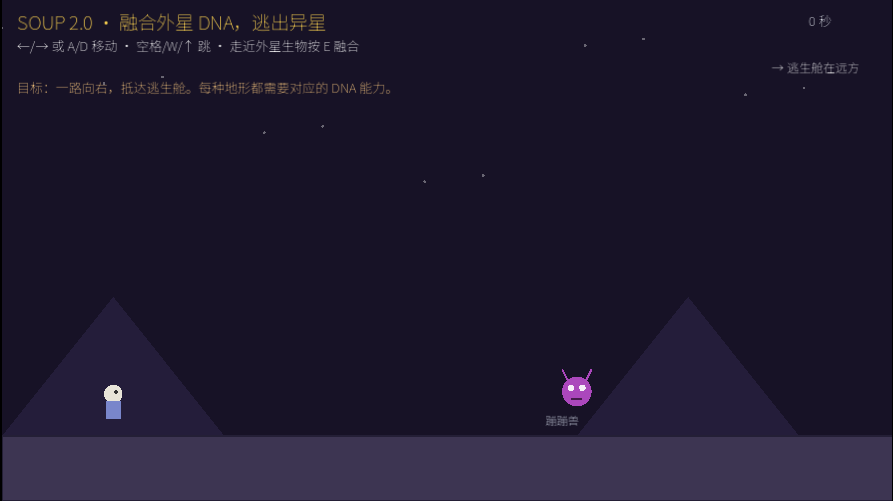
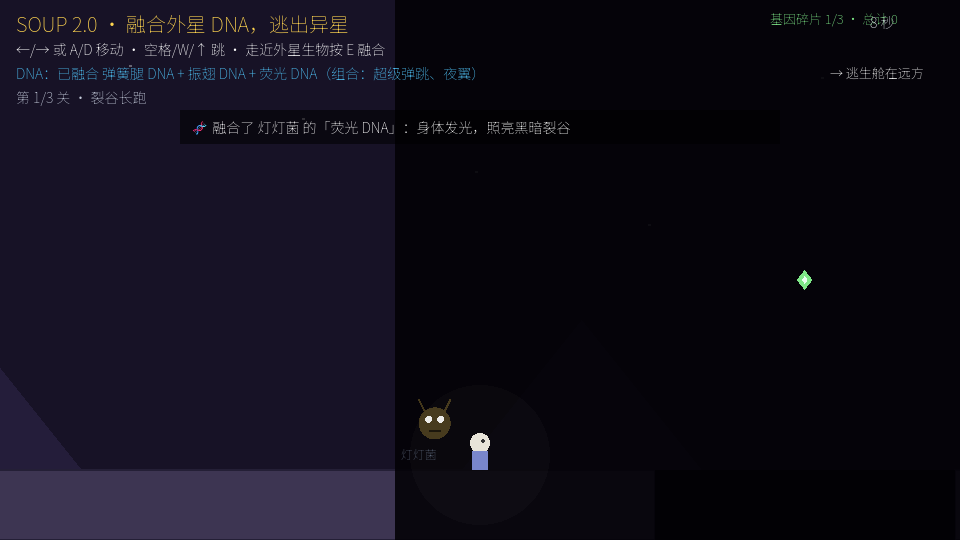
工作流规则：测试验证走 GitHub Pages/itch 公网链接，不用本地前端

diff --git a/requirements/miro-export.md b/requirements/miro-export.md
@@ -1,6 +1,6 @@
 # Miro 导出：看板 uXjVHggi_m8=
 
-> 拉取时间：2026/10/3 19:40:03 · 共 41 条内容（按 纵向→横向 排序）
+> 拉取时间：2026/10/3 20:12:15 · 共 43 条内容（按 纵向→横向 排序）
 > 请把有用的想法整理进 requirements/backlog.md（每个玩法块一节，## demo-0X 开头）
 
 ### [text] @(-218,-185)
@@ -75,6 +75,14 @@ Feedback Slide
 
 <p>截图: https://raw.githubusercontent.com/TonyGuan530/taptap2026/main/reviews/shots/demo-05.png 录屏: https://raw.githubusercontent.com/TonyGuan530/taptap2026/main/reviews/videos/demo-05.mp4 试玩: https://sxguan.itch.io/taptap2026 &#xff08;密码 taptap&#xff09;</p>
 
+### [sticker] @(4400,5060)
+
+&#x1f501; demo-05 v2 迭代&#xff08;2026-10-03&#xff0c;落实 ChatGPT ITERATE 三建议&#xff09;&#xff1a;
+1. 区域收益×风险&#xff1a;河谷水×2/森林食×2/洞穴免灾但撤离税/高地哨兵预报准&#43;行军-1
+2. 灾后应变一次&#xff1a;抢运/侦察/轻装&#xff08;灾害结算在行动后&#xff0c;能改写结局&#xff09;
+3. 不完全天气预报&#xff1a;信息→判断→风险承担
+headless 4 用例全 PASS&#xff08;含「抢运救局」新用例&#xff09;。itch CDN 占位页故障中&#xff0c;GitHub Pages 自动更新。
+
 ### [sticker] @(5714,5732)
 
 <p>修改小说</p>
@@ -82,6 +90,15 @@ Feedback Slide
 ### [frame] @(19724,6204)
 
 灵感菇
+
+### [text] @(4400,6300)
+
+&#x1f195; demo-02 v3 更新&#xff08;2026-10-03&#xff09;&#xff1a;
+新增跳跃输入系统&#xff1a;空格&#61;跳&#xff08;羽毛可空中扑翼&#xff09; / ←→&#61;空中横移&#xff0c;力度随词条变化。
+第三关「组合测试房」&#xff1a;弹簧起飞 → 空中切羽毛横漂 → 舱顶正上方切石头砸穿舱门入舱&#xff0c;一条链用满三个词条&#xff1b;错误词条会掉坑自动重置。
+headless 回归 4/4 PASS。上方卡片截图/录屏已更新为 v3&#xff08;链接不变内容即最新&#xff09;。
+试玩: https://sxguan.itch.io/taptap2026 &#xff08;密码 taptap&#xff09;
+&#xff08;itch CDN 故障期备用镜像: https://tonyguan530.github.io/taptap2026/builds/demo-02-v3/ &#xff09;
 
 ### [sticker] @(16706,6342)
 

diff --git a/requirements/backlog.md b/requirements/backlog.md
@@ -62,10 +62,11 @@
 - 一句话玩法：和外星生物的 DNA 融合改造自身，以逃离危险的异星
 - 操作方式：遭遇外星生物 → 选择融合其 DNA 获得能力（如 跳跃/攀爬/发光）→ 用新能力通过地形障碍 → 逃脱
 - 验收标准（GPT 评审用）：
-  - [ ] 至少 3 种可融合的外星 DNA，各解锁一种移动能力
-  - [ ] 有至少一段必须使用新能力才能通过的地形
-  - [ ] 到达终点有逃脱结算画面
-- 状态：待开发
+  - [x] 至少 3 种可融合的外星 DNA，各解锁一种移动能力（弹簧腿/振翅/荧光）
+  - [x] 有至少一段必须使用新能力才能通过的地形（高台墙强制高跳、长沟强制二段跳、黑暗裂谷无荧光移速×0.45 且跳不过 300px 沟）
+  - [x] 到达终点有逃脱结算画面（评级 S/A/B + 碎片 + 用时）
+- v2（2026-10-03 本轮迭代）：3 个关卡（裂谷长跑/夜翼峡谷/融合之巅）+ DNA 组合效果（高跳+振翅=超级弹跳、振翅+荧光=夜翼黑暗疾行）+ 每关 3 个基因碎片收集 + 下一关按钮；把 v1 的视觉假沟/假裂谷做成真坑（掉落回沟边重生）；跳跃改边沿触发（修复长按吞二段跳且跳更低的手感缺陷）；headless 三用例 PASS（全 DNA 连过 3 关 / 无高跳卡墙 / 无荧光卡裂谷）
+- 状态：v2 已上线（demo-04-v2）
 
 ## demo-05 重生之我是恐龙·火山生存
 

diff --git a/requirements/automations/demo-03.md b/requirements/automations/demo-03.md
@@ -20,7 +20,7 @@ requirements/backlog.md 的 demo-03 节 + Miro 原始想法（requirements/miro-
 - 已创建（2026-10-03）：任务名「每30分钟：demo-03 岩浆降温的小人国度 开发迭代评审发布」，cron `10,40 * * * *`，ID automation-19713e80-d7b5-45c3-bb03-602904b10486，常驻于本专属对话
 
 ## 每轮流程
-1. 环境：curl -s http://localhost:8787/api/health；没响应就后台 node D:/GIT/taptap2026/server/server.js。
+1. 环境：curl -s http://localhost:8787/api/health；没响应就后台 node D:/GIT/taptap2026/server/server.js。（注意：测试验证不要用本地前端——直接用 GitHub Pages 公网链接 https://tonyguan530.github.io/taptap2026/play.html?id=<slotId> 或 itch 页面，截图/录屏也从公网页面取）
 2. Miro 同步：node tools/miro-fetch.mjs；提取与岩浆降温相关的新想法（注意「随机系统酸雨」「建筑系统」扩展贴纸），更新 requirements/backlog.md 的 demo-03 节。
 3. 反馈：data/db.json 的 demo-03 评论，挑可执行项落实。
 4. 开发/迭代：改 game/demo03_volcano.gd——扩展方向（与 GPT 讨论后定）：难度阶段（早期/中期/灭亡倒计时）、酸雨事件、村民升级、建筑系统；headless 平衡测试 game/tests/test_demo03.gd 风格（会玩→胜 / 摆烂→败 双用例）。

diff --git a/requirements/automations/demo-05.md b/requirements/automations/demo-05.md
@@ -19,7 +19,7 @@ requirements/backlog.md 的 demo-05 节 + Miro 原始想法（现代恐龙意识
 - ✅ 定时任务已创建（2026-10-03，本对话，automation-684bb086）：cron `20,50 * * * *`，任务名「每30分钟：demo-05 恐龙火山生存 开发迭代评审发布」。本对话 URL：待填
 
 ## 每轮流程
-1. 环境：curl -s http://localhost:8787/api/health；没响应就后台 node D:/GIT/taptap2026/server/server.js。
+1. 环境：curl -s http://localhost:8787/api/health；没响应就后台 node D:/GIT/taptap2026/server/server.js。（注意：测试验证不要用本地前端——直接用 GitHub Pages 公网链接 https://tonyguan530.github.io/taptap2026/play.html?id=<slotId> 或 itch 页面，截图/录屏也从公网页面取）
 2. Miro 同步：node tools/miro-fetch.mjs；提取与恐龙火山相关的新想法，更新 requirements/backlog.md 的 demo-05 节。
 3. 反馈：data/db.json 的 demo-05 评论，挑可执行项落实。
 4. 开发/迭代：改 game/demo05_volcano.gd——扩展方向（与 GPT 讨论后定）：酸雨事件（Miro 扩展贴纸）、建筑系统（初始建筑：山）、群体系统、多轮难度；headless 平衡测试 game/tests/test_demo05.gd 风格（会玩→胜 / 摆烂→败 双用例，改参数后必须重跑）。

diff --git a/requirements/automations/demo-04.md b/requirements/automations/demo-04.md
@@ -18,7 +18,7 @@ requirements/backlog.md 的 demo-04 节 + Miro 原始想法。玩法：横版跑
 - ChatGPT 监督对话尚未建立（首次运行时创建，把对话 URL 记入 reviews/chatgpt-conversations.json）
 
 ## 每轮流程
-1. 环境：curl -s http://localhost:8787/api/health；没响应就后台 node D:/GIT/taptap2026/server/server.js。
+1. 环境：curl -s http://localhost:8787/api/health；没响应就后台 node D:/GIT/taptap2026/server/server.js。（注意：测试验证不要用本地前端——直接用 GitHub Pages 公网链接 https://tonyguan530.github.io/taptap2026/play.html?id=<slotId> 或 itch 页面，截图/录屏也从公网页面取）
 2. Miro 同步：node tools/miro-fetch.mjs；提取与 SOUP/ DNA 融合相关的新想法，更新 requirements/backlog.md 的 demo-04 节。
 3. 反馈：data/db.json 的 demo-04 评论，挑可执行项落实。
 4. 开发/迭代：改 game/demo04_soup.gd——扩展方向（与 GPT 讨论后定）：第 2-3 关卡（新 DNA 组合地形）、DNA 组合效果、计时/收集评分；headless 通关验证 game/tests/test_demo04.gd 风格（模拟按键通关 + 缺 DNA 卡墙对照）。

diff --git a/requirements/automations/demo-02.md b/requirements/automations/demo-02.md
@@ -22,7 +22,7 @@ requirements/backlog.md 的 demo-02 节 + Miro 原始想法（requirements/miro-
 - 已知坑新增：【羽毛 damp=1.2 会吃掉弹簧冲量】L3 弹簧冲量 (260,-660) 是抵消阻尼后的调参值，改词条参数需同步重调 L3 并跑 headless
 
 ## 每轮流程
-1. 环境：curl -s http://localhost:8787/api/health；没响应就后台 node D:/GIT/taptap2026/server/server.js。
+1. 环境：curl -s http://localhost:8787/api/health；没响应就后台 node D:/GIT/taptap2026/server/server.js。（注意：测试验证不要用本地前端——直接用 GitHub Pages 公网链接 https://tonyguan530.github.io/taptap2026/play.html?id=<slotId> 或 itch 页面，截图/录屏也从公网页面取）
 2. Miro 同步：node tools/miro-fetch.mjs；提取与物性变换相关的新想法，更新 requirements/backlog.md 的 demo-02 节。
 3. 反馈：data/db.json 的 demo-02 评论 + reviews/chatgpt-demo-02-full.md 结论，挑可执行项落实。
 4. 开发/迭代：改 game/demo02_physics.gd（当前 2 关 → 3-4 关）；headless 测试 game/tests/test_demo02_v2.gd 风格。
